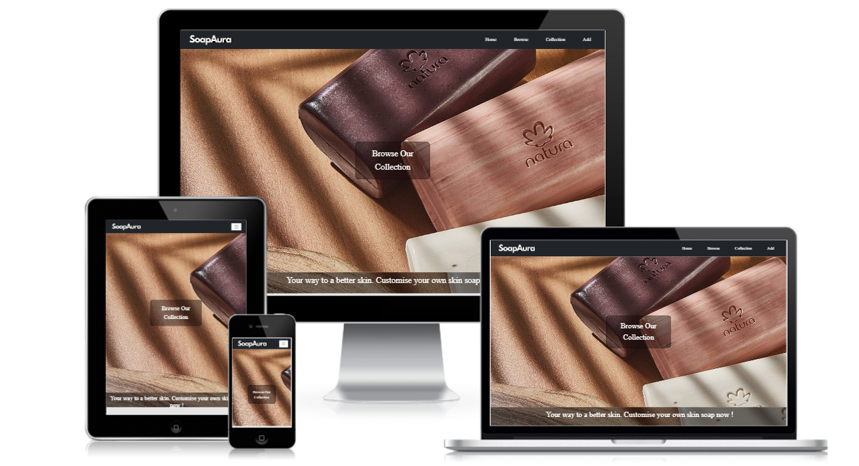
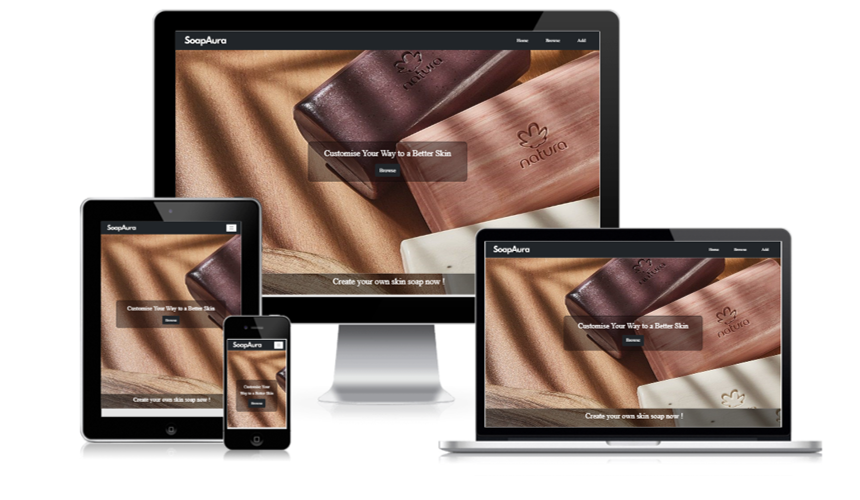
add new readme,testcase,  modify homepage

diff --git a/src/style.css b/src/style.css
@@ -1,11 +1,4 @@
 
-/* 
-
-@media only screen and  (max-width: 500px) { 
-
-
-
-} */
 
 
 @media only screen and  (max-width: 600px) { 
@@ -15,7 +8,7 @@
     padding: 0;
     margin: 0;
     overflow-x: hidden !important;
-    /* background-color: #ebd8b8; */
+
   }
 
 .nav-bar {
@@ -71,15 +64,7 @@ align-content:center
 
 .addbg{
   height: 190px;
-  /* background-repeat: no-repeat; */
   background-image: fit-content;
-  /* background-size: contain; */
-  /* background-size: fit-content; */
-  /* background-attachment: fixed; */
-  /* margin: 0; 
-  padding: 0px; */
-  /* overflow-x: hidden !important; */
-  /* margin-right: 200px;  */
 }
 }
 
@@ -93,7 +78,7 @@ body {
     padding: 0;
     margin: 0;
     overflow-x: hidden !important;
-    /* background-color: #ebd8b8; */
+
   }
 
   #page-container {
@@ -106,8 +91,6 @@ body {
   
   #content-wrap {
     padding-bottom: 0.75rem;
-    /* padding: 0;
-    margin: 0;    */
     overflow-x: hidden 
   }
   
@@ -133,9 +116,6 @@ body {
 
 .nav-link{
   text-align: center;
-  /* color:grey! important; */
-  /* font-size:14px;
-  font-weight:300 */
 }
 .nav-bar {
   margin-left: 18px
@@ -173,10 +153,7 @@ body {
   position: absolute;
   top: 50%;
   left: 50%;
-  /* width: 200px;
-  height:120px; */
   width: 225px;
-  /* height:150px; */
   height: fit-content;
 
   border-radius: 12px;
@@ -196,8 +173,6 @@ body {
 
 #about {
   background-image:url(../public/bar_soap.jpg);
-  /* width: 100%;
-  height: 150vh; */
   background-repeat: no-repeat;
   background-size: cover;
   background-attachment: fixed; 
@@ -215,7 +190,6 @@ body {
 
 .displayCards{
   background-color: transparent;
-  /* background-color: #ebd8b8; */
   height:36%;
   width: 50%;
   display: flex;
@@ -241,7 +215,6 @@ body {
 #about .content h1 {
   color: white   ;
   font-family:'League Spartan';
-  /* padding-left: 1em; */
   margin-left:10px;
   font-size:1.2rem;
   padding: 8px;
@@ -270,13 +243,12 @@ body {
 .infoPic img{
   width: 100%;
   height:auto;
-  /* transition: 0.5s all ease-in-out; */
+
 }
 .deleteBtn{
   position:absolute;
   top: 2.5px;
   right:13px;
-  /* height: 2px; */
   width:13px;
   color:rgba(232, 220, 220, 0.5)
 }
@@ -329,18 +301,10 @@ body {
     
 
 .addbg{
-  /* height: 280px; */
   margin:0;
   padding:0;
-  /* background-repeat: no-repeat; */
+
   background-image: fit-content;
-  /* background-size: contain; */
-  /* background-size: fit-content; */
-  /* background-attachment: fixed; */
-  /* margin: 0; 
-  padding: 0px; */
-  /* overflow-x: hidden !important; */
-  /* margin-right: 200px;  */
 }
 
 .listlogo{
@@ -378,7 +342,6 @@ body {
 padding: 0;
 margin: 0;
 overflow-x: hidden !important;
-/* background-color: #ebd8b8; */
 }
 
 #page-container {
@@ -389,7 +352,6 @@ margin: 0;
 }
 
 #content-wrap {
-/* padding-bottom: 3rem;    */
 overflow-x: hidden
 }
 
@@ -409,16 +371,12 @@ text-decoration: none;
 display:inline-block;
 color: white;
 padding: 8px;
-/* font-family:Jost, sans-serif; */
 font-family:'League Spartan';
 font-size: 1.2rem;
 }
 
 .nav-link{
 text-align: center;
-/* color:grey! important; */
-/* font-size:14px;
-font-weight:300 */
 }
 .nav-bar {
   margin-left: 18px
@@ -466,8 +424,6 @@ font-family:'League Spartan';
 
 #about {
 background-image:url(../public/bar_soap.jpg);
-/* width: 100%;
-height: 150vh; */
 background-repeat: no-repeat;
 background-size: cover;
 background-attachment: fixed; 
@@ -485,7 +441,6 @@ padding: 0px;
 
 .displayCards{
 background-color: transparent;
-/* background-color: #ebd8b8; */
 height:36%;
 width: 50%;
 display: flex;
@@ -540,7 +495,6 @@ font-family:'League Spartan';
 .infoPic img{
   width: 100%;
   height:auto;
-  /* transition: 0.5s all ease-in-out; */
 }
 
 .deleteBtn{
@@ -615,7 +569,6 @@ font-size:0.7rem;
   body {
       padding: 0;
       margin: 0;
-      /* background-color: #ebd8b8; */
       overflow-x: hidden !important;
  
     }
@@ -635,7 +588,6 @@ font-size:0.7rem;
     #main {
       background-color: #212529;
       padding: 5px;
-      /* padding-bottom: 0px; */
       margin:  0;
       
     }
@@ -725,7 +677,7 @@ font-size:0.7rem;
 
     .displayCards{
       background-color: transparent;
-      /* background-color: #ebd8b8; */
+
       height: 19rem;
       width: 18rem;
       display: flex;
@@ -738,8 +690,6 @@ font-size:0.7rem;
     #about {
       background-image:url(../public/bar_soap.jpg);
       width: 100%;
-      /* height: 80vh; */
-      /* height: calc(100vh - 150px); */
       height: max(90vh, fit-content);
       background-repeat: no-repeat;
       background-size: cover;
@@ -771,11 +721,9 @@ font-size:0.7rem;
       padding: 5px 30px;
       font-size: 14px;
       background-color:#212529;
-      /* align-content: center;
-      display: flex; */
+
       font-family:'League Spartan';
       
-  
   }
 
 
@@ -818,16 +766,9 @@ font-size:0.7rem;
   
 
   .addbg{
-    /* height: 500px; */
-    /* background-repeat: no-repeat; */
+
     background-image: fit-content;
-    /* background-size: contain; */
-    /* background-size: fit-content; */
-    /* background-attachment: fixed; */
-    /* margin: 0; 
-    padding: 0px; */
-    /* overflow-x: hidden !important; */
-    /* margin-right: 200px;  */
+  
   }
 
     .footer{

diff --git a/src/pages/AddNew.js b/src/pages/AddNew.js
@@ -144,9 +144,7 @@ export default class AddNew extends React.Component {
       errorMsg: {},
     });
     
-  //  if(this.state.submitted ===true && !this.state.errorMsg ){
- 
-  //  } 
+
 
     try {
       let res = await axios.post(this.url + "soap_listings", {
